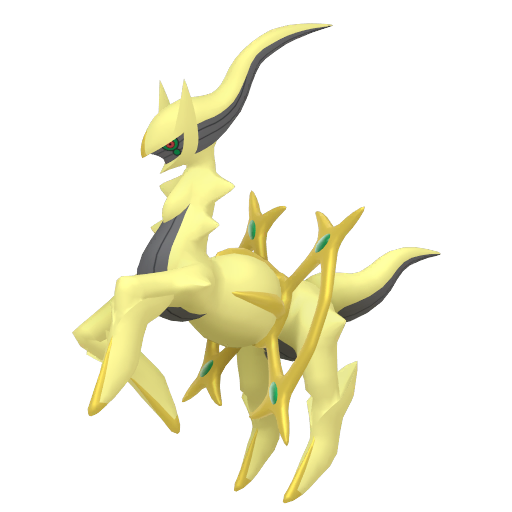
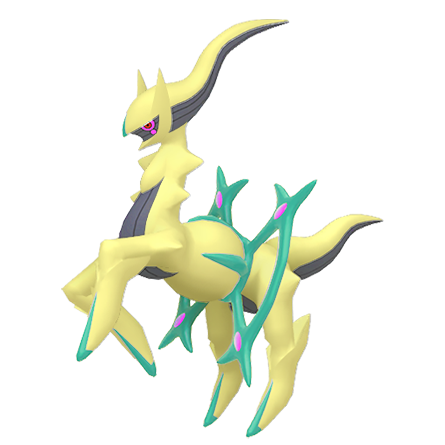
Added some more packs

diff --git a/src/app/Utils/Interfaces.ts b/src/app/Utils/Interfaces.ts
@@ -201,13 +201,33 @@ export const themedPacks: BoosterPack[] = [
     shinyChase: true,
   },
   {
+    id: 'unite',
+    name: 'Unite',
+    filter: (card: Card) => {
+      const allowedNumbers = [
+        1, 2, 3, 4, 5, 6, 7, 8, 9, 25, 26, 35, 36, 37, 38, 39, 40, 54, 66, 67, 68, 77, 78, 79, 80, 84, 85, 92, 93, 94, 122, 129, 130, 131, 143, 147, 148, 149, 150, 151, 183, 184, 133, 196, 197, 123, 212, 113, 242, 245, 246, 247, 248, 250,  255, 256, 257,  280, 281, 282, 302, 358, 374, 375, 376, 380, 381, 443, 444, 445, 448, 470, 471, 220, 221, 473, 491, 557, 558, 570, 571, 607, 608, 609, 653, 654, 655, 656, 657, 658, 661, 662, 663, 679, 680, 681, 700, 704, 705, 706, 708, 709, 720, 722, 723, 724, 761, 762, 763, 764, 778, 794, 807, 813, 814, 815, 816, 817, 818, 819, 820, 829, 830, 845, 868, 869, 870, 884, 885, 886, 887, 888, 891, 892, 906, 907, 908, 935, 936, 937, 957, 958, 959, 1008, 190, 424, 341, 352, 531, 415, 516, 506, 507, 63, 49, 165, 166, 191, 192, 751, 752, 101, 872, 873, 659, 660, 876, 333, 334, 177, 178, 272, 626, 479, 834, 145, 486, 713, 589, 617, 894, 377, 378, 379, 384, 515, 516, 875, 613, 614, 939, 973, 128, 225, 895, 234, 144
+      ];
+         const nonVariantOnly = [3, 6, 9, 79, 80, 94, 122, 130, 131, 143, 248, 212, 257, 282, 302, 358, 376, 380, 381, 445, 448, 570, 571, 658, 705, 706, 724, 815, 818, 101, 479, 834, 145, 713, 384, 128, 144, 334];
+    const variantOnly = [26, 37, 38, 77, 78, 888, 52, 53, 876, 128];
+    const allowedVariants = ['Alola', 'Galar', 'Crowned', 'female', 'Combat'];
+
+    return allowedNumbers.includes(card.number) && (
+      (nonVariantOnly.includes(card.number) && !card.variant) ||
+      (variantOnly.includes(card.number) && allowedVariants.includes(card.variant || '')) ||
+      (!nonVariantOnly.includes(card.number) && !variantOnly.includes(card.number))
+    );
+    },
+    carouselCards: ['Pikachu-25', 'Rapidash (Galar)-78', 'Blissey-242', 'Mimikyu-778', 'Darkrai-491', 'Miraidon-1008'],
+    chaseCard: '',
+  },
+  {
     id: 'snap',
     name: 'Snap',
     filter: (card: Card) => {
       const allowedNumbers = [
         666, 172, 810, 813, 626, 18, 465, 587, 265, 198, 10, 214, 127, 85, 580, 581, 399, 276, 389, 129, 163, 765, 671, 415, 416, 700, 492, 154, 133, 25, 742, 659, 508, 396, 52, 531, 19, 568, 185, 702, 190, 11, 267, 24, 193, 731, 733, 168, 755, 289, 3, 510, 194, 195, 260, 166, 816, 470, 151, 677, 275, 352, 585, 586, 521, 780, 674, 1, 497, 840, 760, 282, 38, 270, 196, 251, 350, 278, 103, 739, 426, 335, 336, 182, 686, 771, 68, 618, 224, 222, 456, 366, 730, 26, 769, 319, 7, 9, 131, 226, 279, 321, 747, 134, 490, 370, 594, 320, 346, 457, 211, 693, 73, 170, 171, 121, 592, 768, 249, 746, 451, 27, 328, 330, 115, 630,  774, 843, 255, 695, 745, 450, 248, 95, 334, 403, 405, 663, 391, 142, 697, 75, 567, 218, 324, 4, 6, 157, 136, 250, 637, 162, 613, 614, 262, 461, 628, 220, 473, 227, 460, 37, 225, 872, 873, 740, 361, 362, 478, 124, 363, 393, 584, 713, 87, 699, 471, 245, 169, 595, 74, 703, 94, 714, 710, 453, 425, 35, 302, 409, 706, 303, 135, 719, 208, 229, 830, 177, 359, 757, 715, 527, 561, 606, 623, 609, 197, 385, 716, 285, 590, 143, 160, 357, 54, 217, 529, 173, 130, 50, 744, 758, 498, 558, 472, 545, 109, 317, 807, 709
       ];
-         const nonVariantOnly = [194, 38, 103, 52, 618, 27, 211, 25, 19, 18, 6, 3, 460, 628, 133, 319, 74, 75, 706, 127, 214, 94, 302, 303, 492, 282, 815, 359, 248, 719, 362, 208, 222, 142, 143];
+         const nonVariantOnly = [194, 38, 103, 52, 618, 27, 211, 25, 19, 18, 6, 3, 460, 628, 133, 319, 74, 75, 706, 127, 214, 94, 302, 303, 492, 282, 815, 359, 248, 719, 362, 208, 222, 142, 143, 9];
     const variantOnly = [26, 28, 37, 716];
     const allowedVariants = ['Alola', 'active'];
 
@@ -239,6 +259,26 @@ export const themedPacks: BoosterPack[] = [
     },
     carouselCards: ['Omanyte-138', 'Anorith-347', 'Bastiodon-411', 'Carracosta-565', 'Tyrantrum-697', 'Dracovish-882', 'Mega Aerodactyl-142', 'Regigigas-486', 'Genesect-649'],
     chaseCard: 'Genesect-649',
+  },
+  {
+    id: 'urshifu',
+    name: 'Might & Mastery',
+    filter: (card: Card) => {
+      const allowedNumbers = [
+        1, 2, 3, 7, 8, 9, 56, 57, 66, 67, 68, 83, 106, 107, 214, 236, 237, 296, 297, 307, 308, 447, 448, 453, 454, 280, 281, 475, 532, 533, 534, 538, 539, 559, 560, 619, 620, 674,  675, 701, 759, 760, 766, 782, 783, 784, 802, 852, 853, 865, 870, 891, 892, 973, 979, 60, 61, 62, 129, 130, 273, 274, 275, 285, 286, 318, 319, 341, 342, 501, 502, 503, 551, 552, 553, 821, 822, 823, 827, 828, 845, 846, 847, 912, 913, 914,  919, 920, 403, 404, 405, 239, 125, 466, 522, 523, 921, 922, 923, 113, 242, 440, 427, 428, 531, 963, 954, 656, 657, 658, 744, 745
+      ];
+         const nonVariantOnly = [0];
+    const variantOnly = [83];
+    const allowedVariants = ['Galar'];
+
+    return allowedNumbers.includes(card.number) && (
+      (nonVariantOnly.includes(card.number) && !card.variant) ||
+      (variantOnly.includes(card.number) && allowedVariants.includes(card.variant || '')) ||
+      (!nonVariantOnly.includes(card.number) && !variantOnly.includes(card.number))
+    );
+    },
+    carouselCards: ['Kubfu-891', 'Urshifu (Single Strike)-892', 'Urshifu (Rapid Strike)-892', 'GMax Urshifu (Single Strike)-892', 'GMax Urshifu (Rapid Strike)-892'],
+    chaseCard: '',
   },
 ];
 
@@ -818,6 +858,7 @@ export const allCards: Card[] = [
   { name: 'Arceus (Dragon)', number: 493, type: ['Dragon'], isShiny: false, rarity: 'Mythical', move: 'Judgment', variant: 'dragon' },
   { name: 'Arceus (Dark)', number: 493, type: ['Dark'], isShiny: false, rarity: 'Mythical', move: 'Judgment', variant: 'dark' },
   { name: 'Arceus (Fairy)', number: 493, type: ['Fairy'], isShiny: false, rarity: 'Mythical', move: 'Judgment', variant: 'fairy' },
+  { name: 'Arceus (???)', number: 493, type: ['Stellar'], isShiny: false, rarity: 'Mythical', move: 'Judgment', variant: 'unknown', artist: '@FedeFadePSK' },
   //Unova
    { name: 'Victini', number: 494, type: ['Psychic', 'Fire'], isShiny: false, rarity: 'Mythical', move: 'V-create' },
   { name: 'Snivy', number: 495, type: ['Grass'], isShiny: false, rarity: 'Uncommon', move: 'Leaf Blade' },
@@ -1813,7 +1854,7 @@ export const specialFormRegionMapping: Record<number, Record<string, string[]>> 
   442: {east: ['Sinnoh'], west: ['Sinnoh']},
   443: {east: ['Sinnoh'], west: ['Sinnoh']},
   201: {a: ['Johto'], b: ['Johto'], c: ['Johto'], d: ['Johto'], e: ['Johto'], f: ['Johto'], g: ['Johto'], h: ['Johto'], i: ['Johto'], j: ['Johto'], k: ['Johto'], l: ['Johto'], m: ['Johto'], n: ['Johto'], o: ['Johto'], p: ['Johto'], q: ['Johto'], r: ['Johto'], s: ['Johto'], t: ['Johto'], u: ['Johto'], v: ['Johto'], w: ['Johto'], x: ['Johto'], y: ['Johto'], z: ['Johto'], exclamation: ['Johto'], question: ['Johto']},
-  493: {fighting: ['Sinnoh'], flying: ['Sinnoh'], poison: ['Sinnoh'], ground: ['Sinnoh'], rock: ['Sinnoh'], bug: ['Sinnoh'], ghost: ['Sinnoh'], steel: ['Sinnoh'], fire: ['Sinnoh'], water: ['Sinnoh'], grass: ['Sinnoh'], electric: ['Sinnoh'], psychic: ['Sinnoh'], ice: ['Sinnoh'], dragon: ['Sinnoh'], dark: ['Sinnoh'], fairy: ['Sinnoh']},
+  493: {fighting: ['Sinnoh'], flying: ['Sinnoh'], poison: ['Sinnoh'], ground: ['Sinnoh'], rock: ['Sinnoh'], bug: ['Sinnoh'], ghost: ['Sinnoh'], steel: ['Sinnoh'], fire: ['Sinnoh'], water: ['Sinnoh'], grass: ['Sinnoh'], electric: ['Sinnoh'], psychic: ['Sinnoh'], ice: ['Sinnoh'], dragon: ['Sinnoh'], dark: ['Sinnoh'], fairy: ['Sinnoh'], unknwon: ['Sinnoh']},
   773: {fighting: ['Alola'], flying: ['Alola'], poison: ['Alola'], ground: ['Alola'], rock: ['Alola'], bug: ['Alola'], ghost: ['Alola'], steel: ['Alola'], fire: ['Alola'], water: ['Alola'], grass: ['Alola'], electric: ['Alola'], psychic: ['Alola'], ice: ['Alola'], dragon: ['Alola'], dark: ['Alola'], fairy: ['Alola']},
   585: {spring: ['Unova'], summer: ['Unova'], autumn: ['Unova'], winter: ['Unova']},
   586: {spring: ['Unova'], summer: ['Unova'], autumn: ['Unova'], winter: ['Unova']},

diff --git a/src/app/Utils/Achievement.ts b/src/app/Utils/Achievement.ts
@@ -482,7 +482,7 @@ requiredCards: [
   },
   {
     id: 'totem',
-    name: 'Standing Before You: Totem Pokemon',
+    name: 'Totem Challenge',
     description: 'Collect the Totem Pokemon',
     showIcons: true,
     requiredCards: [
@@ -934,6 +934,7 @@ requiredCards: [
   { cardKey: 'Arceus (Dark)-493', variant: 'dark' },
   { cardKey: 'Arceus (Steel)-493', variant: 'steel' },
   { cardKey: 'Arceus (Fairy)-493', variant: 'fairy' },
+  { cardKey: 'Arceus (???)-493', variant: 'unknown' },
 ]
   },
   {
